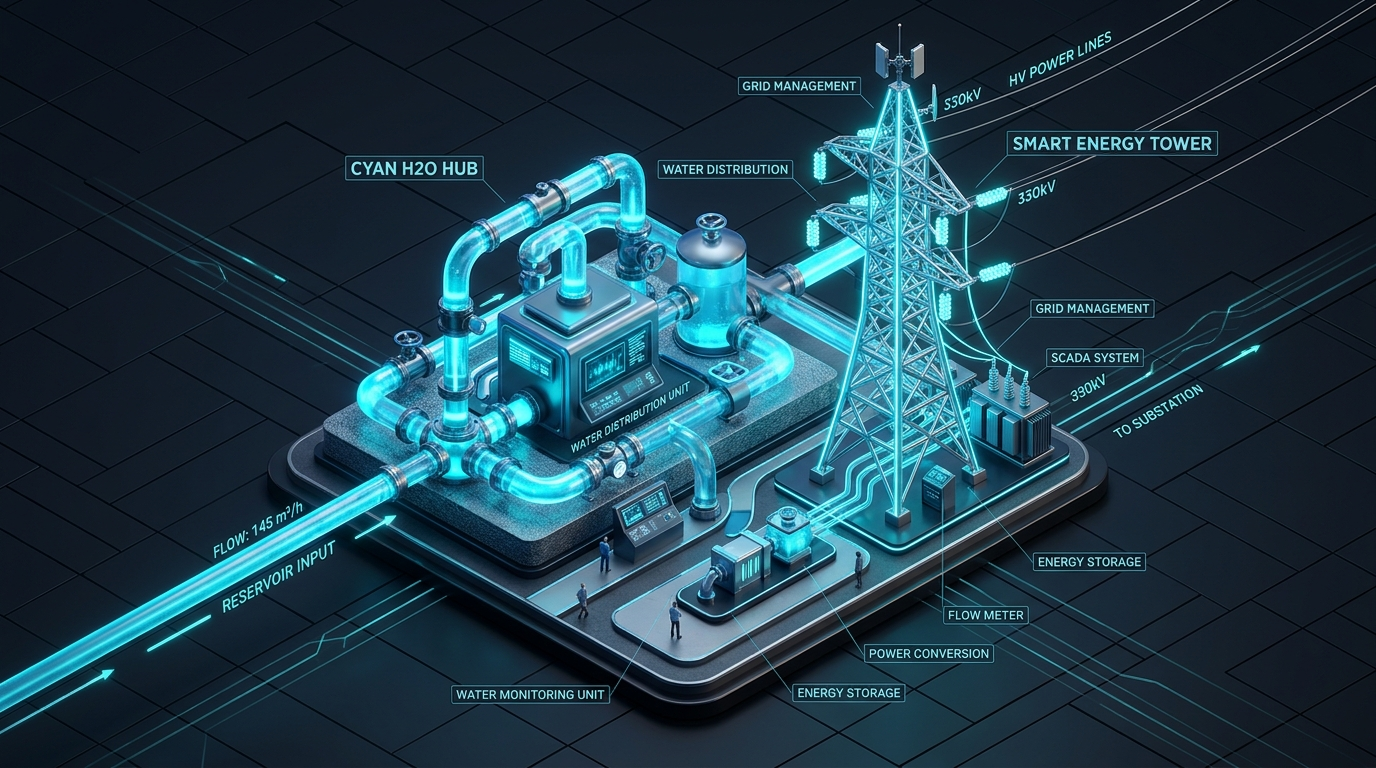
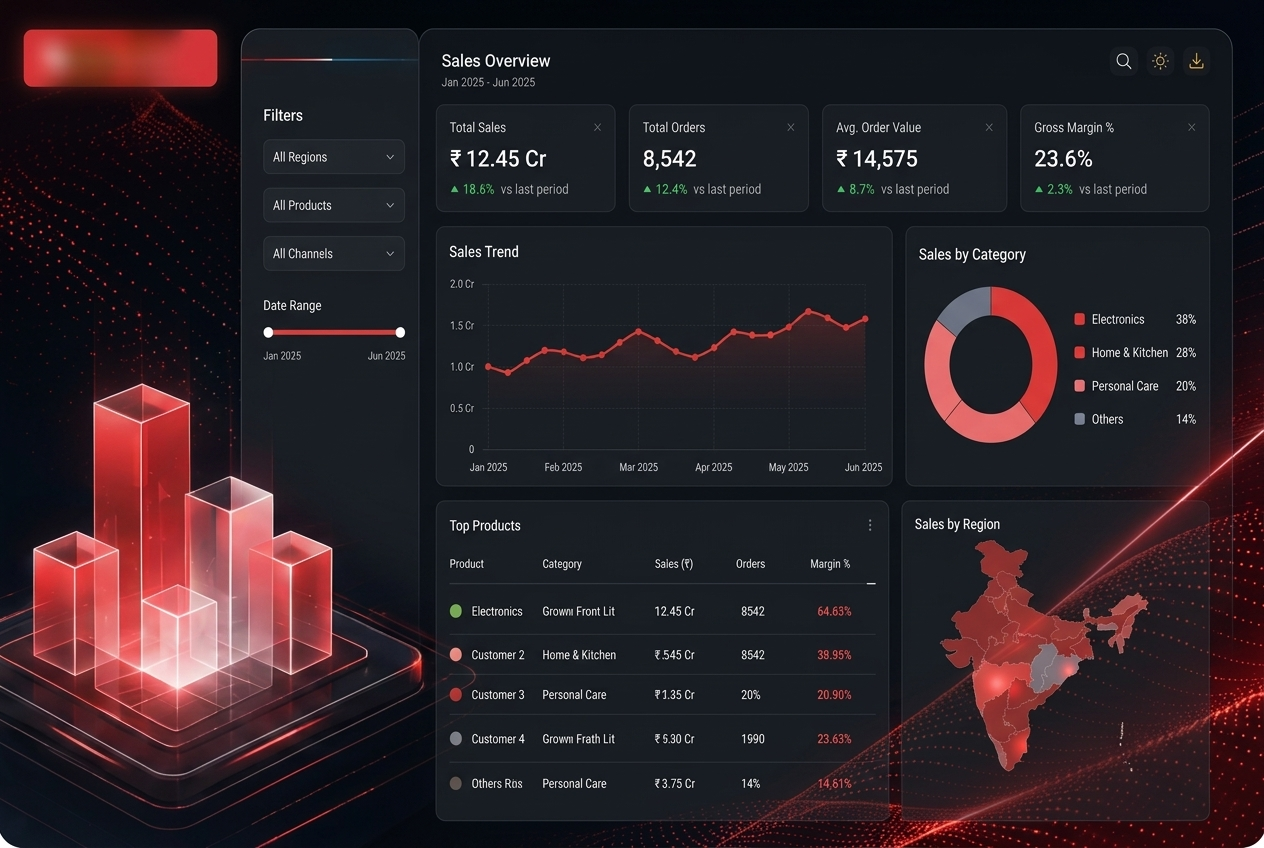
v.00.057_CaseStudy-Sara0004

diff --git a/docs/assets/js/icons.js b/docs/assets/js/icons.js
@@ -26,7 +26,6 @@ export const ICONS = {
     "chevron-left": `<svg viewBox="0 0 24 24" aria-hidden="true" fill="none" stroke="currentColor" stroke-width="2"><path d="M15 18l-6-6 6-6"/></svg>`,
     "chevron-right": `<svg viewBox="0 0 24 24" aria-hidden="true" fill="none" stroke="currentColor" stroke-width="2"><path d="M9 18l6-6-6-6"/></svg>`,
     "chevron-up": `<svg viewBox="0 0 24 24" aria-hidden="true" fill="none" stroke="currentColor" stroke-width="2"><path d="M18 15l-6-6-6 6"/></svg>`,
-    industry: `<svg viewBox="0 0 24 24" aria-hidden="true" fill="none" stroke="currentColor" stroke-width="1.75"><path d="M4 21V10l6-3v4l6-3v13"/><path d="M4 21h16"/><path d="M16 21v-6h4v6"/></svg>`,
     network: `<svg viewBox="0 0 24 24" aria-hidden="true" fill="none" stroke="currentColor" stroke-width="1.75"><circle cx="5" cy="6" r="2"/><circle cx="19" cy="6" r="2"/><circle cx="12" cy="18" r="2"/><path d="M7 6h10"/><path d="M6.5 7.5L11 16"/><path d="M17.5 7.5L13 16"/></svg>`,
     warning: `<svg viewBox="0 0 24 24" aria-hidden="true" fill="none" stroke="currentColor" stroke-width="1.75" stroke-linejoin="round"><path d="M12 3.4L21.6 20.2H2.4L12 3.4z"/><path d="M12 10v5"/><circle cx="12" cy="17.4" r="0.85" fill="currentColor" stroke="none"/></svg>`,
     "visibility-off": `<svg viewBox="0 0 24 24" aria-hidden="true" fill="none" stroke="currentColor" stroke-width="1.75" stroke-linecap="round"><path d="M3 3l18 18"/><path d="M10.6 10.6A2 2 0 0012 14a2 2 0 001.4-.6"/><path d="M9.5 5.2A11 11 0 0112 5c5.2 0 9.5 3.2 11 7.5a12.4 12.4 0 01-4.1 4.9"/><path d="M6.6 6.7C4.1 8.3 2.3 10.5 1 12.5c1.5 2.2 3.7 4.5 6.6 5.8A11 11 0 0012 19c.8 0 1.5-.1 2.2-.2"/></svg>`,
@@ -44,7 +43,9 @@ export const ICONS = {
     evidence: `<svg viewBox="0 0 24 24" aria-hidden="true" fill="none" stroke="currentColor" stroke-width="1.75" stroke-linecap="round" stroke-linejoin="round"><path d="M6 3h8l4 4v14H6z"/><path d="M14 3v5h5"/><path d="M9 12h6"/><path d="M9 16h4"/><circle cx="17" cy="16" r="3"/><path d="M19.2 18.2L21 20"/></svg>`,
     "bar-Chart": `<svg viewBox="0 0 24 24" aria-hidden="true" fill="none" stroke="currentColor" stroke-width="1.75" stroke-linecap="round" stroke-linejoin="round"><path d="M4 18V10"/><path d="M9 18V6"/><path d="M14 18v-4"/><path d="M19 18V8"/><path d="M3 20h18"/><path d="M15 9l2-2 2 2"/><path d="M17 7v6"/></svg>`,
     "Energy & Utilities": `<svg viewBox="0 0 24 24" aria-hidden="true" fill="none" stroke="currentColor" stroke-width="1.75" stroke-linecap="round" stroke-linejoin="round"><path d="M8 3c0 0-4 5.2-4 8.5a4 4 0 0 0 8 0C12 8.2 8 3 8 3z"/><path d="M17 3l-4 7h3l-2 5 5-7h-3l2-5z"/></svg>`,
-    "Financial Services": `<svg viewBox="0 0 24 24" aria-hidden="true" fill="none" stroke="currentColor" stroke-width="1.75" stroke-linecap="round"><circle cx="12" cy="12" r="8"/><path d="M12 5.5v13"/><path d="M14.5 9.5c-.5-1-1.5-1.5-2.5-1.5-1.4 0-2.5.7-2.5 1.8 0 1.2 1 1.7 2.5 2.1 1.5.4 2.5.9 2.5 2.1 0 1.1-1.1 1.8-2.5 1.8-1 0-2-.5-2.5-1.5"/></svg>`
+    "Financial Services": `<svg viewBox="0 0 24 24" aria-hidden="true" fill="none" stroke="currentColor" stroke-width="1.75" stroke-linecap="round"><circle cx="12" cy="12" r="8"/><path d="M12 5.5v13"/><path d="M14.5 9.5c-.5-1-1.5-1.5-2.5-1.5-1.4 0-2.5.7-2.5 1.8 0 1.2 1 1.7 2.5 2.1 1.5.4 2.5.9 2.5 2.1 0 1.1-1.1 1.8-2.5 1.8-1 0-2-.5-2.5-1.5"/></svg>`,
+    "Consumer Goods": `<svg viewBox="0 0 24 24" aria-hidden="true" fill="none" stroke="currentColor" stroke-width="1.75" stroke-linecap="round" stroke-linejoin="round"><path d="M3 4h2l2.2 10.3a1 1 0 0 0 1 .7h9.6a1 1 0 0 0 1-.8L20 7H6"/><path d="M9 7V4h6v3"/><path stroke-width="2.5" d="M9 19.5h.01M17 19.5h.01"/></svg>`,
+    "Industrial Goods": `<svg viewBox="0 0 24 24" aria-hidden="true" fill="none" stroke="currentColor" stroke-width="1.75"><path d="M4 21V10l6-3v4l6-3v13"/><path d="M4 21h16"/><path d="M16 21v-6h4v6"/></svg>`
 };
 
 export function icon(name, className = "cs-icon") {

diff --git a/docs/assets/js/case-index.js b/docs/assets/js/case-index.js
@@ -33,8 +33,8 @@ const GEOGRAPHY = [
 const INDUSTRY_ICONS = {
     "Energy & Utilities": "Energy & Utilities",
     "Financial Services": "Financial Services",
-    "Consumer Goods": "grid",
-    Manufacturing: "gear"
+    "Consumer Goods": "Consumer Goods",
+    "Industrial Goods": "Industrial Goods"
 };
 
 function uniqueSorted(values) {
@@ -465,7 +465,7 @@ function renderIndustryChips(cases, selected) {
             }
         });
         button.append(
-            icon(INDUSTRY_ICONS[chip.label] || "industry", "case-index-chip-icon"),
+            icon(INDUSTRY_ICONS[chip.label] || "grid", "case-index-chip-icon"),
             createElement("span", { text: chip.label }),
             createElement("em", { text: String(chip.count) })
         );
